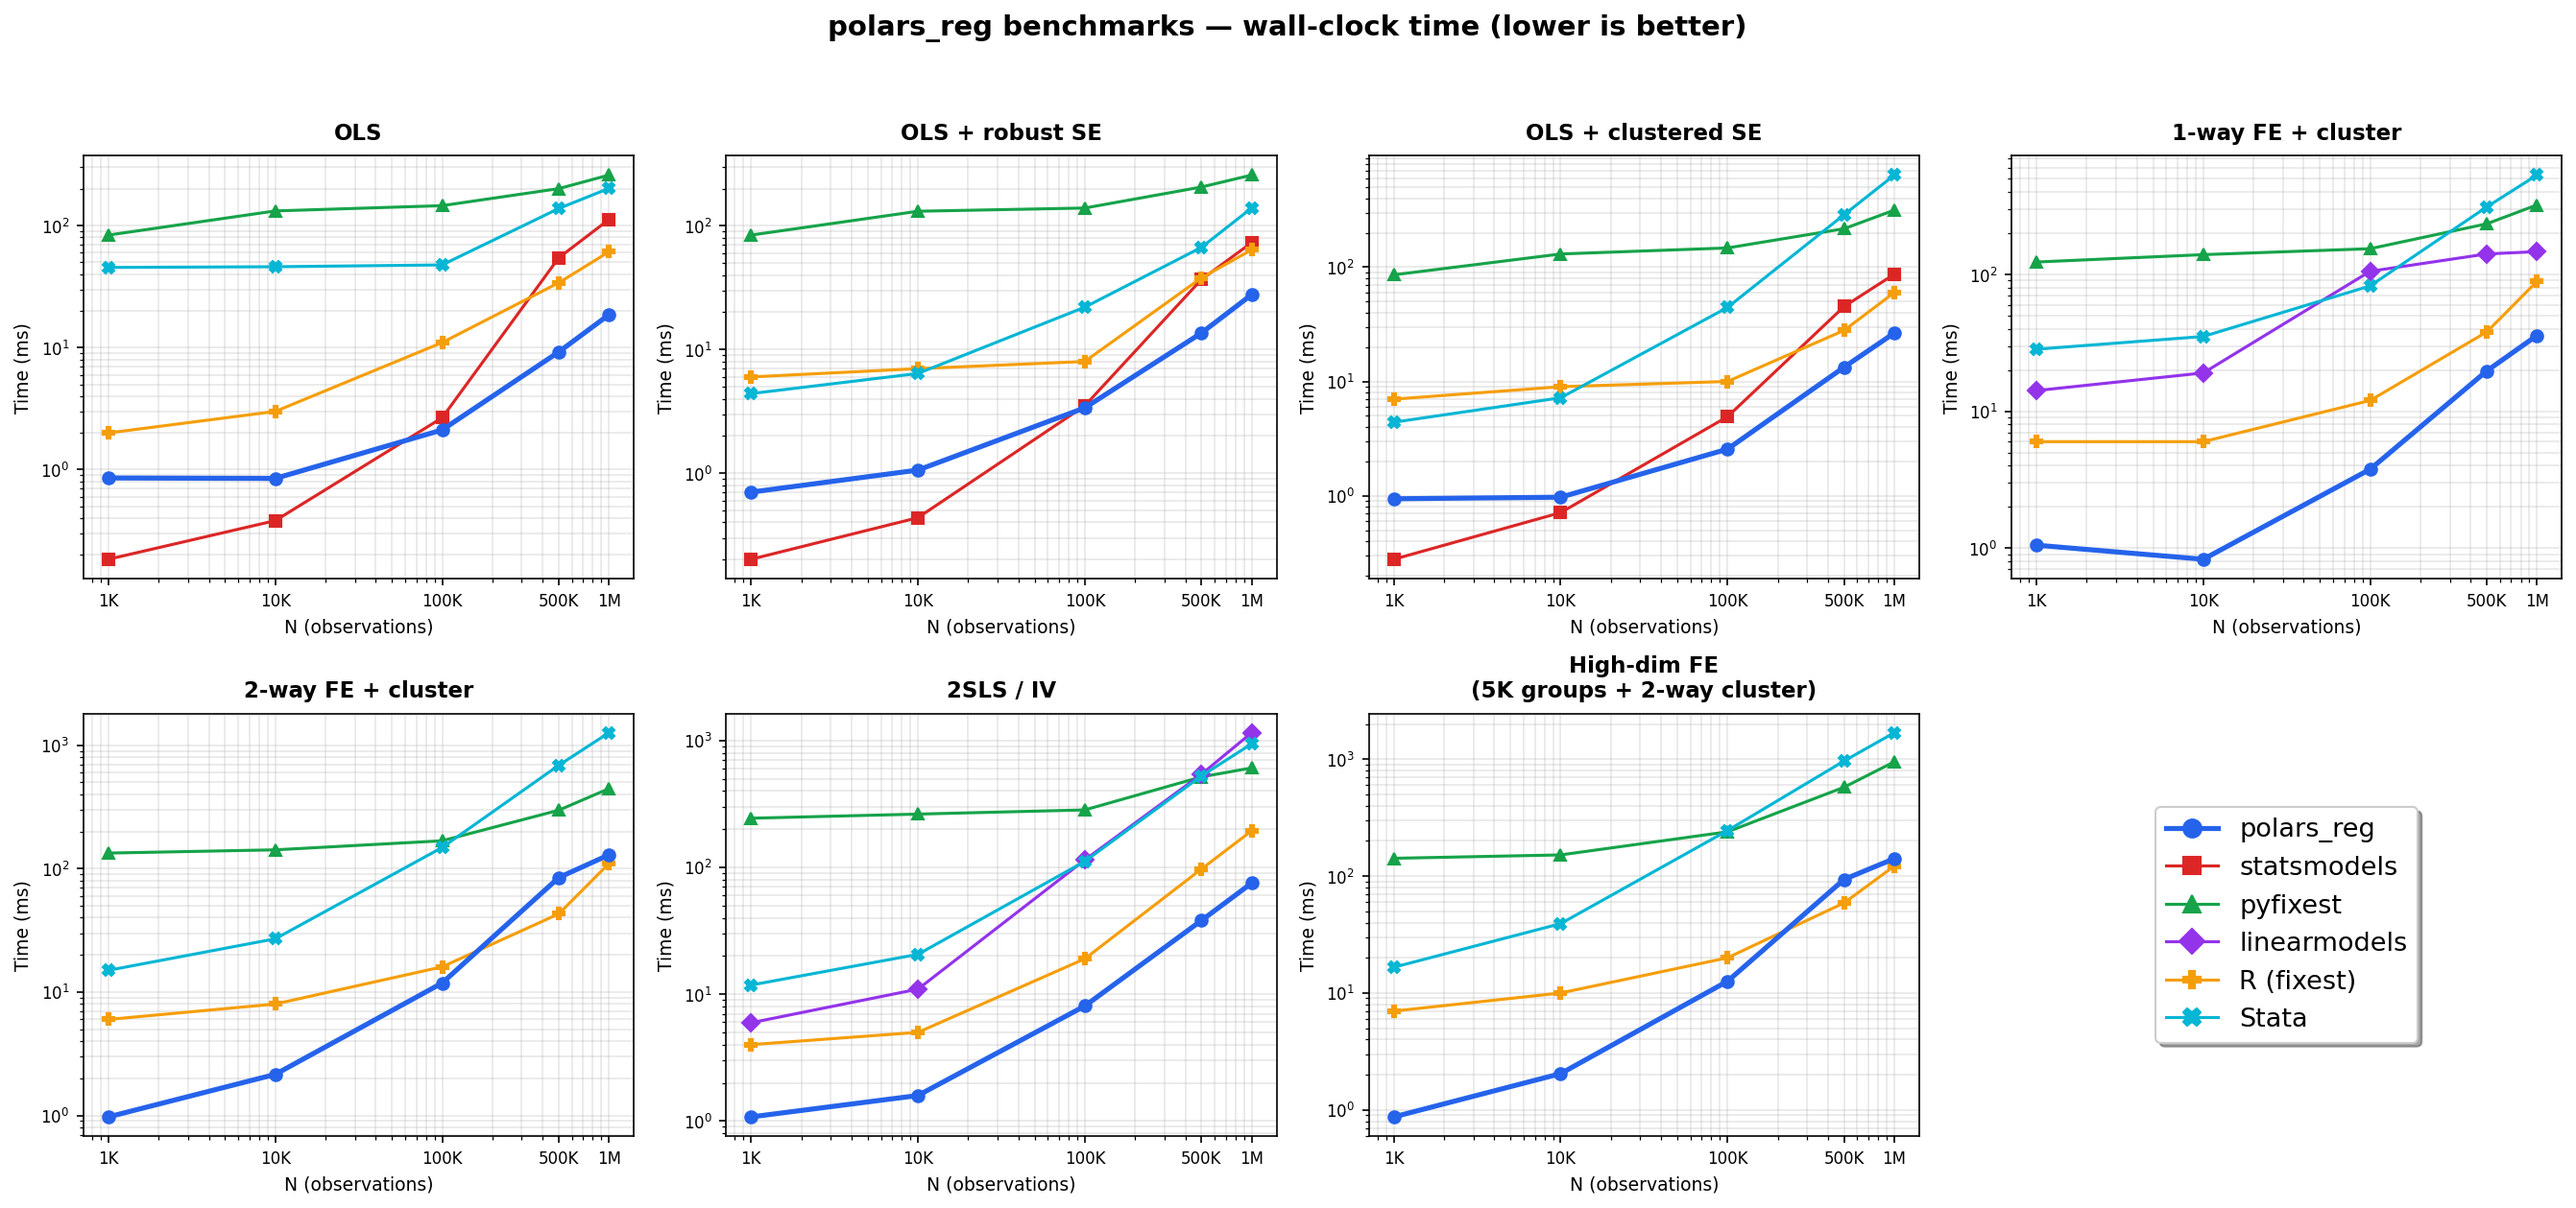
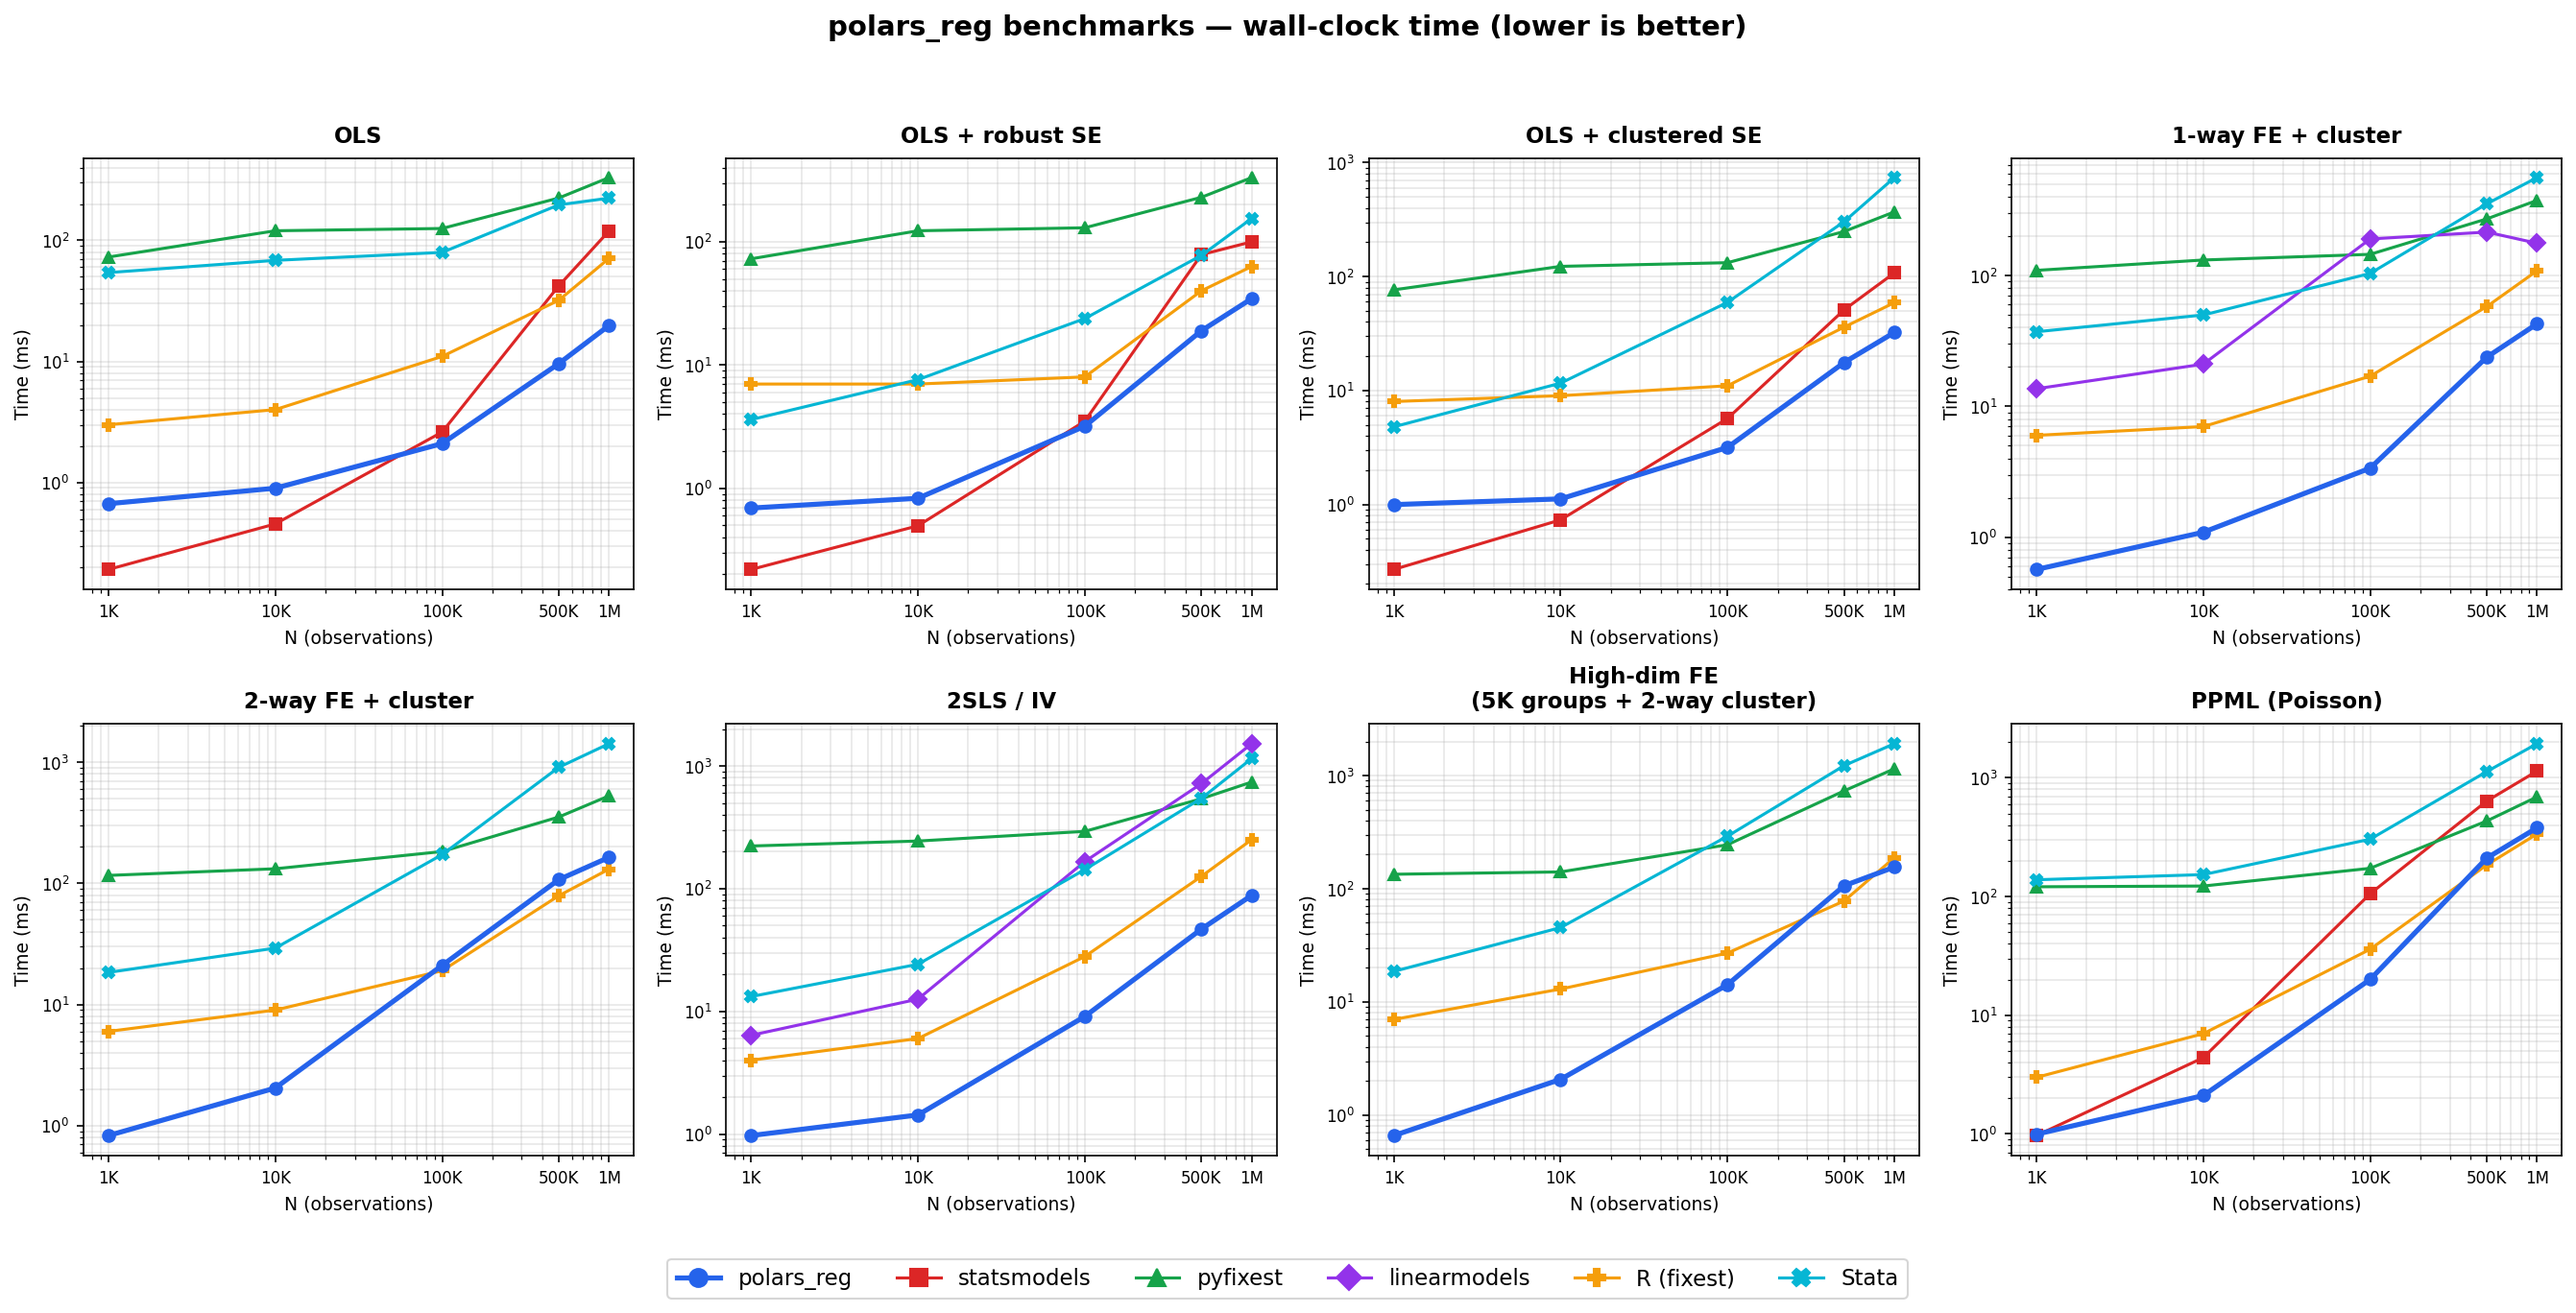
bench: regenerate benchmarks with PPML panel
Add Poisson/PPML benchmark comparing polars_reg vs statsmodels GLM,
pyfixest fepois, R fepois, and Stata poisson. Chart now has 8 panels
with legend at bottom.

diff --git a/benchmarks/generate_chart.py b/benchmarks/generate_chart.py
@@ -71,11 +71,13 @@ BENCHMARKS = [
     "2-way FE + cluster",
     "2SLS / IV",
     "High-dim FE\n(5K groups + 2-way cluster)",
+    "PPML (Poisson)",
 ]
 
 # Map from R/Stata output names to chart benchmark names
 _NAME_MAP = {
     "High-dim FE": "High-dim FE\n(5K groups + 2-way cluster)",
+    "PPML (Poisson)": "PPML (Poisson)",
 }
 
 
@@ -98,6 +100,9 @@ def make_data(n: int, n_firms: int, n_industries: int = 20, rng=None):
     year_id = rng.integers(2000, 2020, size=n)
     firm_fe = rng.standard_normal(n_firms)[firm_id]
     y = 2.0 + x1 - 0.5 * x2 + 1.5 * x_endog + firm_fe + u
+    # Count outcome for PPML
+    mu_count = np.exp(0.5 + 0.8 * x1 - 0.3 * x2)
+    y_count = rng.poisson(np.clip(mu_count, 0, 100)).astype(np.float64)
     return {
         "y": y,
         "x1": x1,
@@ -108,6 +113,7 @@ def make_data(n: int, n_firms: int, n_industries: int = 20, rng=None):
         "firm_id": firm_id,
         "industry_id": industry_id,
         "year_id": year_id,
+        "y_count": y_count,
     }
 
 
@@ -198,7 +204,7 @@ def run_stata_benchmarks(csv_path: str, reps: int) -> dict[str, float]:
         import time as _time
 
         deadline = _time.monotonic() + 1200
-        expected_lines = 7
+        expected_lines = 8
         while _time.monotonic() < deadline:
             if os.path.isfile(outfile):
                 with open(outfile) as _f:
@@ -435,6 +441,33 @@ def run_all():
             )
         )
 
+        # PPML (Poisson)
+        pldf_count = pldf.with_columns(pl.Series("y_count", data["y_count"]))
+        pdf_count = pdf.copy()
+        pdf_count["y_count"] = data["y_count"]
+        X_sm_count = sm.add_constant(pdf_count[["x1", "x2"]])
+        results["PPML (Poisson)"]["polars_reg"].append(
+            (n, timeit(lambda: pr.ppml("y_count ~ x1 + x2", data=pldf_count)))
+        )
+        results["PPML (Poisson)"]["statsmodels"].append(
+            (
+                n,
+                timeit(
+                    lambda: sm.GLM(
+                        pdf_count["y_count"],
+                        X_sm_count,
+                        family=sm.families.Poisson(),
+                    ).fit()
+                ),
+            )
+        )
+        results["PPML (Poisson)"]["pyfixest"].append(
+            (
+                n,
+                timeit(lambda: pf.fepois("y_count ~ x1 + x2", data=pdf_count)),
+            )
+        )
+
         print(" done")
 
     return results, scales
@@ -471,7 +504,7 @@ PKG_ORDER = [
 
 
 def make_chart(results, scales):
-    fig, axes = plt.subplots(2, 4, figsize=(18, 8.5))
+    fig, axes = plt.subplots(2, 4, figsize=(18, 9))
     axes = axes.flatten()
 
     # Collect all legend handles/labels across all panels
@@ -520,28 +553,25 @@ def make_chart(results, scales):
                 labels.append(f"{s // 1_000}K")
         ax.set_xticklabels(labels, fontsize=8)
 
-    # Hide the unused subplot (8th position)
-    axes[7].axis("off")
-
     # Build legend from all panels (preserving order)
     handles = [all_handles[p] for p in PKG_ORDER if p in all_handles]
     labels = [p for p in PKG_ORDER if p in all_handles]
-    axes[7].legend(
+    fig.legend(
         handles,
         labels,
-        loc="center",
-        fontsize=13,
+        loc="lower center",
+        fontsize=11,
         frameon=True,
         fancybox=True,
-        shadow=True,
-        ncol=1,
+        ncol=len(labels),
         markerscale=1.5,
+        bbox_to_anchor=(0.5, -0.02),
     )
 
     title = "polars_reg benchmarks — wall-clock time (lower is better)"
     fig.suptitle(title, fontsize=14, fontweight="bold", y=0.98)
 
-    plt.tight_layout(rect=[0, 0, 1, 0.95])
+    plt.tight_layout(rect=[0, 0.04, 1, 0.95])
     out = str(BENCH_DIR / "benchmark_chart.png")
     fig.savefig(out, dpi=150, bbox_inches="tight", facecolor="white")
     print(f"\nSaved: {out}")
